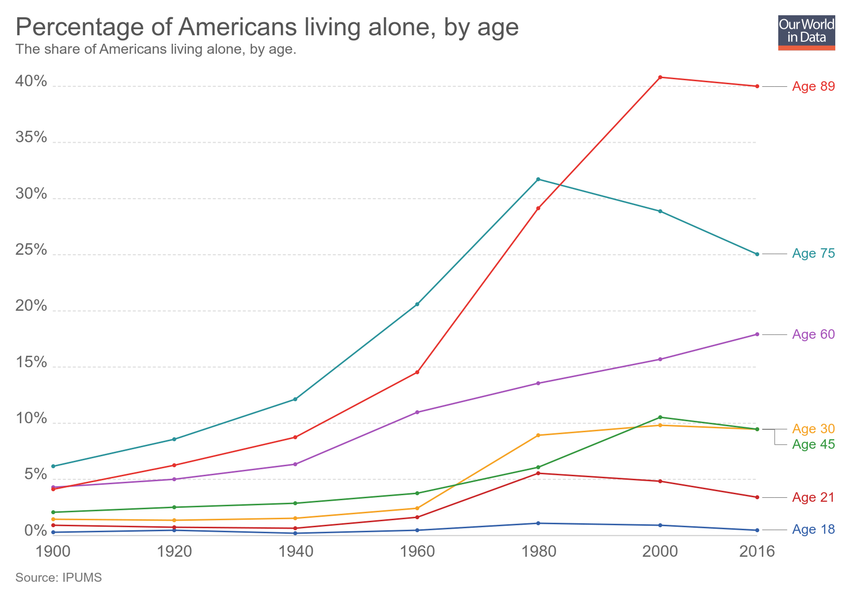
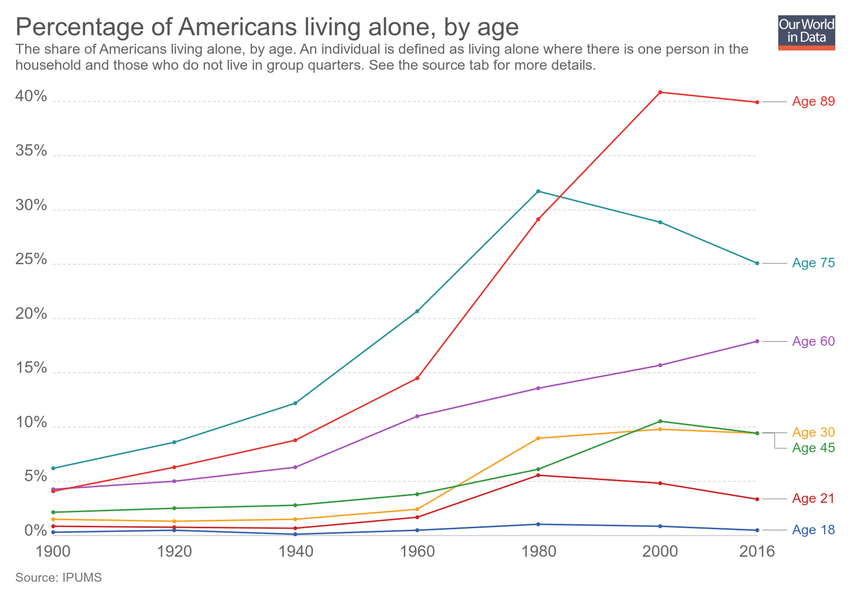
Updating chart percentage-of-americans-living-alone-by-age

diff --git a/grapher/percentage-of-americans-living-alone-by-age.html b/grapher/percentage-of-americans-living-alone-by-age.html
@@ -1,4 +1,4 @@
-<!doctype html><html><head><meta name="viewport" content="width=device-width, initial-scale=1" /><title>Percentage of Americans living alone, by age - Our World in Data</title><meta name="description" content="The share of Americans living alone, by age. " /><link rel="canonical" href="https://ourworldindata.org/grapher/percentage-of-americans-living-alone-by-age" /><meta property="fb:app_id" content="1149943818390250" /><meta property="og:url" content="https://ourworldindata.org/grapher/percentage-of-americans-living-alone-by-age" /><meta property="og:title" content="Percentage of Americans living alone, by age" /><meta property="og:description" content="The share of Americans living alone, by age. " /><meta property="og:image" content="https://ourworldindata.org/grapher/exports/percentage-of-americans-living-alone-by-age.png?v=1" /><meta property="og:image:width" content="850" /><meta property="og:image:height" content="600" /><meta property="og:site_name" content="Our World in Data" /><meta name="twitter:card" content="summary_large_image" /><meta name="twitter:site" content="@OurWorldInData" /><meta name="twitter:creator" content="@OurWorldInData" /><meta name="twitter:title" content="Percentage of Americans living alone, by age" /><meta name="twitter:description" content="The share of Americans living alone, by age. " /><meta name="twitter:image" content="https://ourworldindata.org/grapher/exports/percentage-of-americans-living-alone-by-age.png?v=1" /><style>
+<!doctype html><html><head><meta name="viewport" content="width=device-width, initial-scale=1" /><title>Percentage of Americans living alone, by age - Our World in Data</title><meta name="description" content="The share of Americans living alone, by age. An individual is defined as living alone where there is one person in the household and those who do not live in group quarters. See the source tab for more details." /><link rel="canonical" href="https://ourworldindata.org/grapher/percentage-of-americans-living-alone-by-age" /><meta property="fb:app_id" content="1149943818390250" /><meta property="og:url" content="https://ourworldindata.org/grapher/percentage-of-americans-living-alone-by-age" /><meta property="og:title" content="Percentage of Americans living alone, by age" /><meta property="og:description" content="The share of Americans living alone, by age. An individual is defined as living alone where there is one person in the household and those who do not live in group quarters. See the source tab for more details." /><meta property="og:image" content="https://ourworldindata.org/grapher/exports/percentage-of-americans-living-alone-by-age.png?v=3" /><meta property="og:image:width" content="850" /><meta property="og:image:height" content="600" /><meta property="og:site_name" content="Our World in Data" /><meta name="twitter:card" content="summary_large_image" /><meta name="twitter:site" content="@OurWorldInData" /><meta name="twitter:creator" content="@OurWorldInData" /><meta name="twitter:title" content="Percentage of Americans living alone, by age" /><meta name="twitter:description" content="The share of Americans living alone, by age. An individual is defined as living alone where there is one person in the household and those who do not live in group quarters. See the source tab for more details." /><meta name="twitter:image" content="https://ourworldindata.org/grapher/exports/percentage-of-americans-living-alone-by-age.png?v=3" /><style>
         html, body {
             height: 100%;
             margin: 0;
@@ -20,8 +20,8 @@
         }
     </style><noscript><style>
                     figure { display: none !important; }
-                </style></noscript><link rel="stylesheet" href="https://ourworldindata.org/grapher/assets/commons.bundle.0187c87ba84a83fbad86.css" /><link rel="preload" href="/grapher/data/variables/97932.json?v=1" as="fetch" crossorigin /></head><body class="singleChart"><figure data-grapher-src="/grapher/percentage-of-americans-living-alone-by-age"></figure><noscript id="fallback"><img src="/grapher/exports/percentage-of-americans-living-alone-by-age.svg" /><p>Interactive visualization requires JavaScript</p></noscript><script src="https://cdn.polyfill.io/v2/polyfill.min.js?features=es6,fetch"></script><script src="https://ourworldindata.org/grapher/assets/commons.bundle.0187c87ba84a83fbad86.js"></script><script src="https://ourworldindata.org/grapher/assets/charts.bundle.0187c87ba84a83fbad86.js"></script><script>
-        var jsonConfig = {"map":{"projection":"World","colorSchemeLabels":[],"colorSchemeValues":[],"customNumericColors":[],"customCategoryColors":{},"customCategoryLabels":{},"customHiddenCategories":{}},"tab":"chart","slug":"percentage-of-americans-living-alone-by-age","type":"LineChart","title":"Percentage of Americans living alone, by age","xAxis":{"scaleType":"linear"},"yAxis":{"min":0,"scaleType":"linear"},"version":1,"subtitle":"The share of Americans living alone, by age. ","hasMapTab":false,"stackMode":"absolute","dimensions":[{"display":{},"property":"y","variableId":97932}],"entityType":"age","isAutoSlug":true,"hasChartTab":true,"isPublished":true,"selectedData":[{"index":0,"entityId":38087},{"index":0,"entityId":38088},{"index":0,"entityId":38089},{"index":0,"entityId":38090},{"index":0,"entityId":38091},{"index":0,"entityId":38092},{"index":0,"entityId":38093}],"addCountryMode":"add-country","id":3004};
+                </style></noscript><link rel="stylesheet" href="https://ourworldindata.org/grapher/assets/commons.bundle.0187c87ba84a83fbad86.css" /><link rel="preload" href="/grapher/data/variables/97932.json?v=3" as="fetch" crossorigin /></head><body class="singleChart"><figure data-grapher-src="/grapher/percentage-of-americans-living-alone-by-age"></figure><noscript id="fallback"><img src="/grapher/exports/percentage-of-americans-living-alone-by-age.svg" /><p>Interactive visualization requires JavaScript</p></noscript><script src="https://cdn.polyfill.io/v2/polyfill.min.js?features=es6,fetch"></script><script src="https://ourworldindata.org/grapher/assets/commons.bundle.0187c87ba84a83fbad86.js"></script><script src="https://ourworldindata.org/grapher/assets/charts.bundle.0187c87ba84a83fbad86.js"></script><script>
+        var jsonConfig = {"id":3004,"map":{"projection":"World","colorSchemeLabels":[],"colorSchemeValues":[],"customNumericColors":[],"customCategoryColors":{},"customCategoryLabels":{},"customHiddenCategories":{}},"tab":"chart","slug":"percentage-of-americans-living-alone-by-age","type":"LineChart","title":"Percentage of Americans living alone, by age","xAxis":{"scaleType":"linear"},"yAxis":{"min":0,"scaleType":"linear"},"version":3,"subtitle":"The share of Americans living alone, by age. An individual is defined as living alone where there is one person in the household and those who do not live in group quarters. See the source tab for more details.","hasMapTab":false,"stackMode":"absolute","dimensions":[{"display":{},"property":"y","variableId":97932}],"entityType":"age","hasChartTab":true,"isPublished":true,"selectedData":[{"index":0,"entityId":38087},{"index":0,"entityId":38088},{"index":0,"entityId":38089},{"index":0,"entityId":38090},{"index":0,"entityId":38091},{"index":0,"entityId":38092},{"index":0,"entityId":38093}],"addCountryMode":"add-country"};
         var figure = document.getElementsByTagName("figure")[0];
         try {
             window.App = {};
